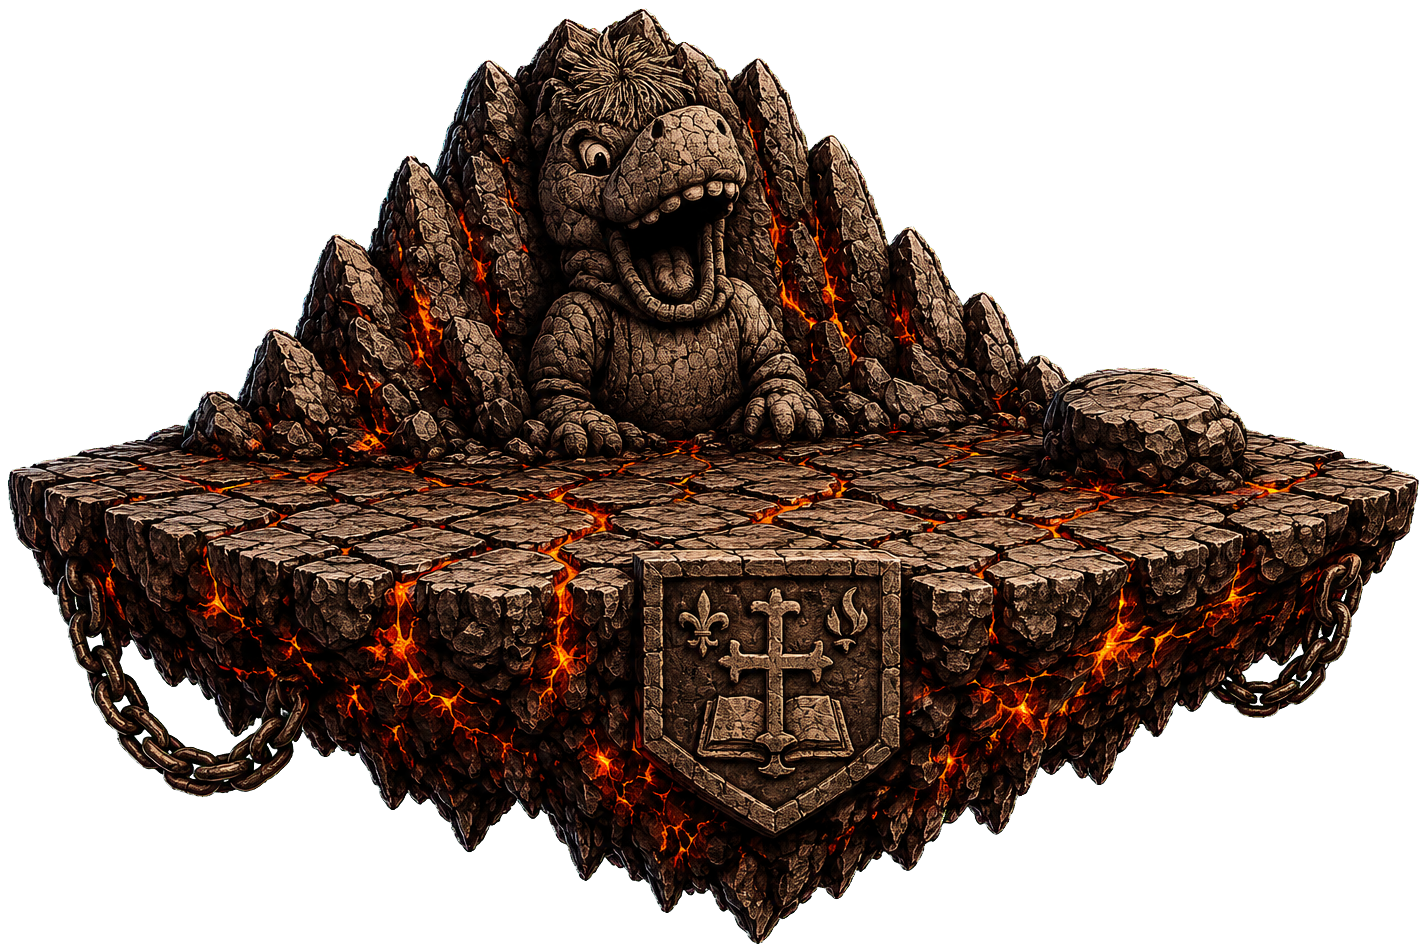
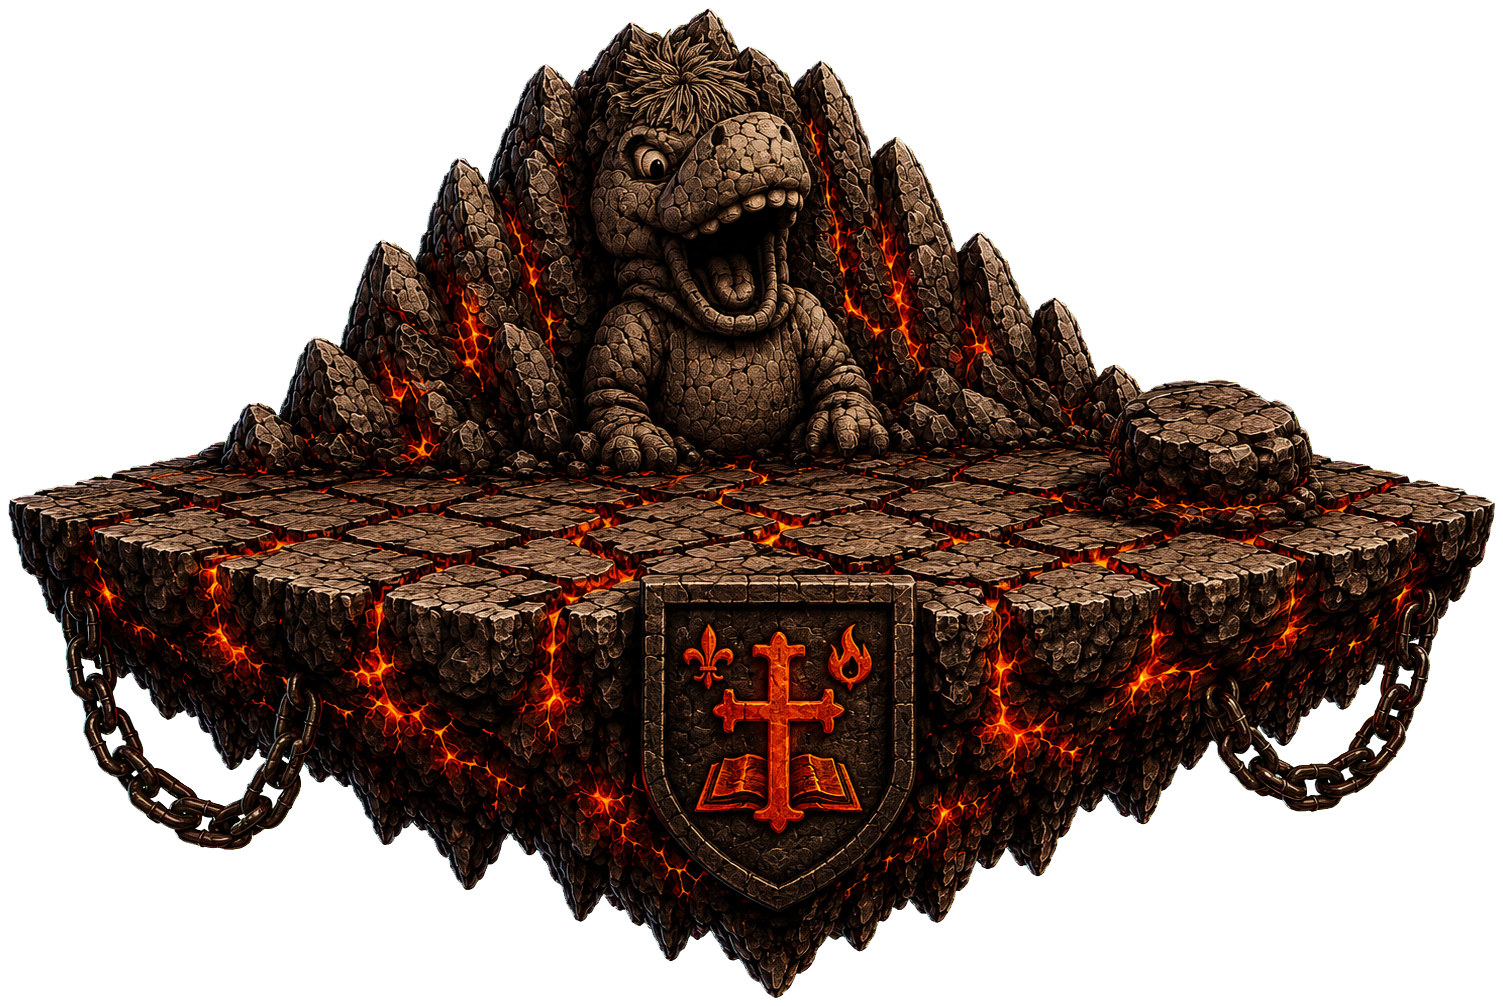
Replace Colt Run platform 18 with colored crest

diff --git a/app.js b/app.js
@@ -2092,7 +2092,7 @@ function startColtRunGame() {
   platformAssetVersions[14] = "20260718-platform15-replace1";
   platformAssetVersions[15] = "20260719-platform16-replace1";
   platformAssetVersions[16] = "20260720-platform17-glowing-crest1";
-  platformAssetVersions[17] = "20260718-platform18-replace1";
+  platformAssetVersions[17] = "20260720-platform18-colored-crest1";
   platformAssetVersions[19] = "20260720-platform20-colored-fallback1";
   platformAssetVersions[20] = "20260718-platform21-replace1";
   const platformSpriteSources = platformAssetVersions.map((version, index) => (
@@ -4197,7 +4197,7 @@ function startColtRunGame() {
         lastPlatformSprite = smallPlatformSpriteIndex;
         return smallPlatformSpriteIndex;
       }
-      const widePlatforms = [0, 2, 6, 7, 9, 11, 12, 13, 14, 15, 18];
+      const widePlatforms = [0, 2, 6, 7, 9, 11, 12, 13, 14, 15, 17, 18];
       const islandPlatforms = [1, 2, 3, 4, 5, 8, 10, 11, 12, 14, 15, 20];
       const choices = width > 230 ? widePlatforms : islandPlatforms;
       const activeChoices = choices.filter(choice => !retiredPlatformSpriteIndexes.has(choice));

diff --git a/index.html b/index.html
@@ -8,7 +8,7 @@
 </head>
 <body>
   <main id="app" class="app-shell"></main>
-  <script src="app.js?v=20260720-remove-old-school-platform1"></script>
+  <script src="app.js?v=20260720-platform18-colored-crest1"></script>
 </body>
 </html>
 
